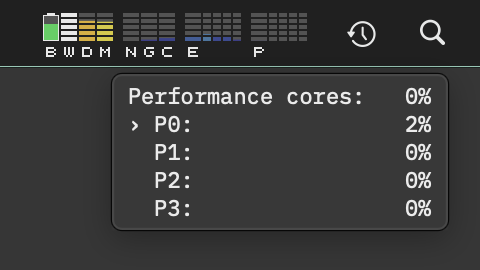
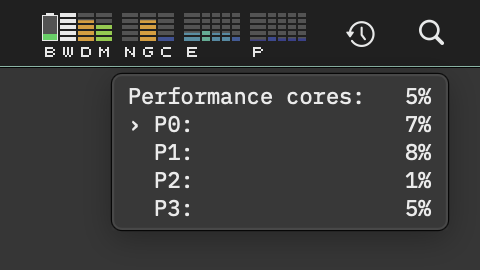
Retake the README pictures with the battery at 24% on battery

diff --git a/README.md b/README.md
@@ -50,7 +50,7 @@ Rest the pointer on a bar for a second and its reading shows below the menu bar.
 
 * **Memory:** memory in use, with free, used and swapped memory and the total.
 
-<img src="screenshots/hover-memory.png" width="223" alt="Memory usage label">
+<img src="screenshots/hover-memory.png" width="220" alt="Memory usage label">
 
 * **CPU:** overall CPU use, the average over all cores.
 
